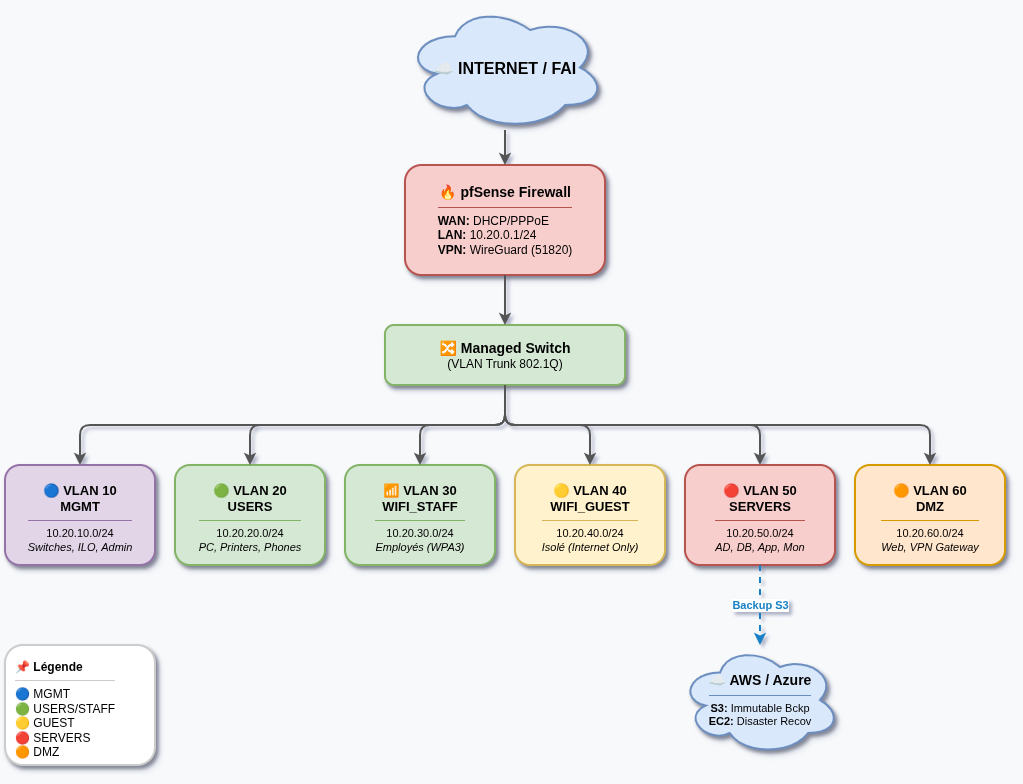
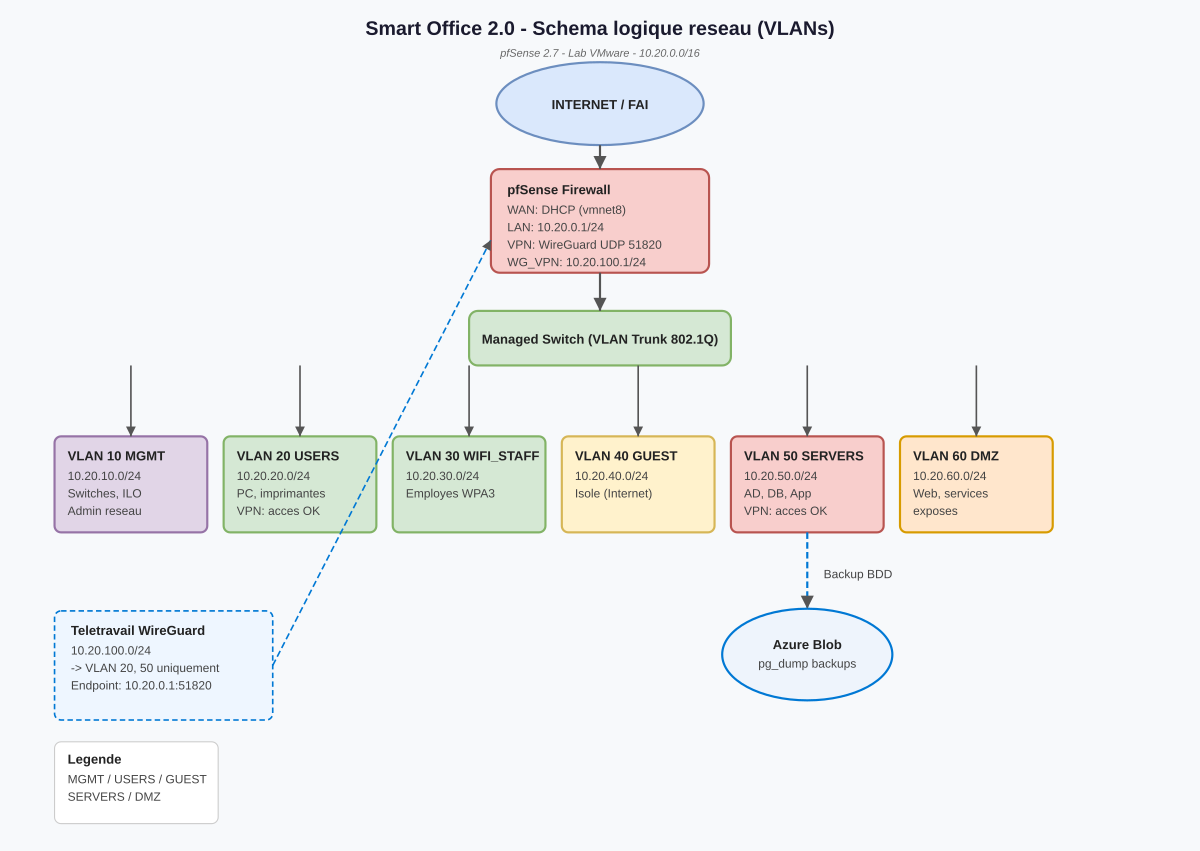
feat: captures PoC, schema VLAN et export Moodle
Ajoute scripts capture-lab-proofs et build_moodle_zip, met a jour
network_diagram.png (SVG VLAN), captures Grafana/backup/VPN/cloud et
nettoyage branches mergees.

Changed region(s): [[0.0, 0.0, 1.0, 1.0]]

diff --git a/docs/livrable/README.md b/docs/livrable/README.md
@@ -27,20 +27,29 @@ Dépôt GitHub : https://github.com/AlexKedevil/ynov-b3-infra
 
 ---
 
-## Génération PDF (exemples)
+## Génération automatique (ZIP)
 
 ```bash
-# Pandoc (si installé)
-pandoc docs/DAT.md -o docs/livrable/01_DAT.pdf
+# Captures PoC a jour (Grafana, backup, VPN, cloud)
+./scripts/capture-lab-proofs.sh
 
-# Ou : ouvrir les .md dans VS Code / GitHub → imprimer en PDF
+# ZIP Moodle (markdown + screenshots)
+./docs/livrable/build_moodle_zip.sh
+# -> docs/livrable/SmartOffice_B3_YYYYMMDD.zip
+```
+
+## Génération PDF (optionnel)
+
+```bash
+pandoc docs/DAT.md -o docs/livrable/01_DAT.pdf
+# Ou : VS Code / GitHub -> imprimer en PDF
 ```
 
 ---
 
 ## Checklist avant remise
 
-- [ ] Tous les livrables [docs/README.md](../README.md) sont à statut « Fait »
-- [ ] Screenshots PoC à jour
-- [ ] Lien GitHub valide
-- [ ] ZIP uploadé sur Moodle avant le 18/06/2026 00:00
+- [x] Tous les livrables [docs/README.md](../README.md) sont à statut « Fait »
+- [x] Screenshots PoC (`./scripts/capture-lab-proofs.sh`)
+- [x] Lien GitHub valide
+- [ ] ZIP uploadé sur Moodle avant le 18/06/2026 00:00 (`build_moodle_zip.sh`)

diff --git a/docs/project_management/screenshots/README.md b/docs/project_management/screenshots/README.md
@@ -5,4 +5,13 @@
 | [trello_board_overview.png](trello_board_overview.png) | Vue des colonnes Backlog / En cours / Fait |
 | [trello_card_monitoring.png](trello_card_monitoring.png) | Carte Monitoring — détail PoC Grafana/Loki |
 
-Optionnel pour le ZIP Moodle : captures GitHub Actions, Grafana, ACI.
+Captures generees pour Moodle :
+
+| Fichier | Contenu |
+|---------|---------|
+| `trello_board_overview.png` | Board Trello |
+| `trello_card_monitoring.png` | Carte Monitoring |
+| `grafana_dashboard_poc.png` | Grafana + Loki (API proof) |
+| `aci_room_booking_health.png` | Health ACI / local |
+
+Regenerer : `./scripts/capture-lab-proofs.sh`

diff --git a/infra/network/pfsense_wireguard_vpn.md b/infra/network/pfsense_wireguard_vpn.md
@@ -164,12 +164,15 @@ Prérequis VMware : promiscuous mode sur `vmnet2` — [vmware_vmnet2_config.md](
 
 ---
 
-## Captures (à ajouter après config)
+## Captures
 
 | Fichier | Contenu |
 |---------|---------|
-| `docs/architecture/screenshots/pfsense_wireguard_tunnel.png` | Tunnel + peer |
-| `docs/architecture/screenshots/pfsense_wireguard_firewall.png` | Règles interface WireGuard |
+| [vpn_wireguard_ping_proof.png](../../docs/architecture/screenshots/vpn_wireguard_ping_proof.png) | `wg show` + ping VLAN20/50 |
+| [pfsense_wireguard_tunnel.png](../../docs/architecture/screenshots/pfsense_wireguard_tunnel.png) | Preuve tunnel actif |
+| [pfsense_wireguard_firewall.png](../../docs/architecture/screenshots/pfsense_wireguard_firewall.png) | Validation acces VPN |
+
+Regenerer : `./scripts/capture-lab-proofs.sh` (VPN complet : `sudo wg-quick up credentials/wg-smartoffice.conf`).
 
 ---
 

diff --git a/README.md b/README.md
@@ -51,6 +51,8 @@ Schéma source (éditable) : [docs/architecture/smart_office_hybrid.svg](docs/ar
 
 ![Schéma Logique du Réseau](docs/architecture/screenshots/network_diagram.png)
 
+Schéma source : [docs/architecture/network_vlan.svg](docs/architecture/network_vlan.svg) · draw.io : [network diagram.xml](docs/architecture/network%20diagram.xml)
+
 - [Plan d'Adressage IP & VLAN](docs/architecture/Plan_Adressage_IP_VLAN.md)
 - [Installation pfSense](infra/network/pfsense_initial_setup.md)
 - [Configuration VLANs](infra/network/pfsense_vlan_config.md)

diff --git a/docs/project_management/backlog_sprints.md b/docs/project_management/backlog_sprints.md
@@ -15,7 +15,7 @@
 | Colonne | Usage |
 |---------|-------|
 | Backlog | Évolutions hors scope PoC (VPN Azure, HA, SIEM avancé) |
-| En cours | Livrable Moodle, captures finales |
+| En cours | Upload ZIP Moodle (18/06/2026) |
 | Fait | Livrables mergés (réseau, cloud, IAM, monitoring, docs) |
 
 ---

diff --git a/monitoring/README.md b/monitoring/README.md
@@ -66,3 +66,4 @@ chmod +x scripts/*.sh
 - [DAT — § Supervision](../docs/DAT.md#11-supervision-et-détection)
 - [ITSM](../docs/project_management/ITSM.md)
 - [room-booking](../cloud/room-booking/)
+- Capture PoC : [grafana_dashboard_poc.png](../docs/project_management/screenshots/grafana_dashboard_poc.png) (`./scripts/capture-lab-proofs.sh`)